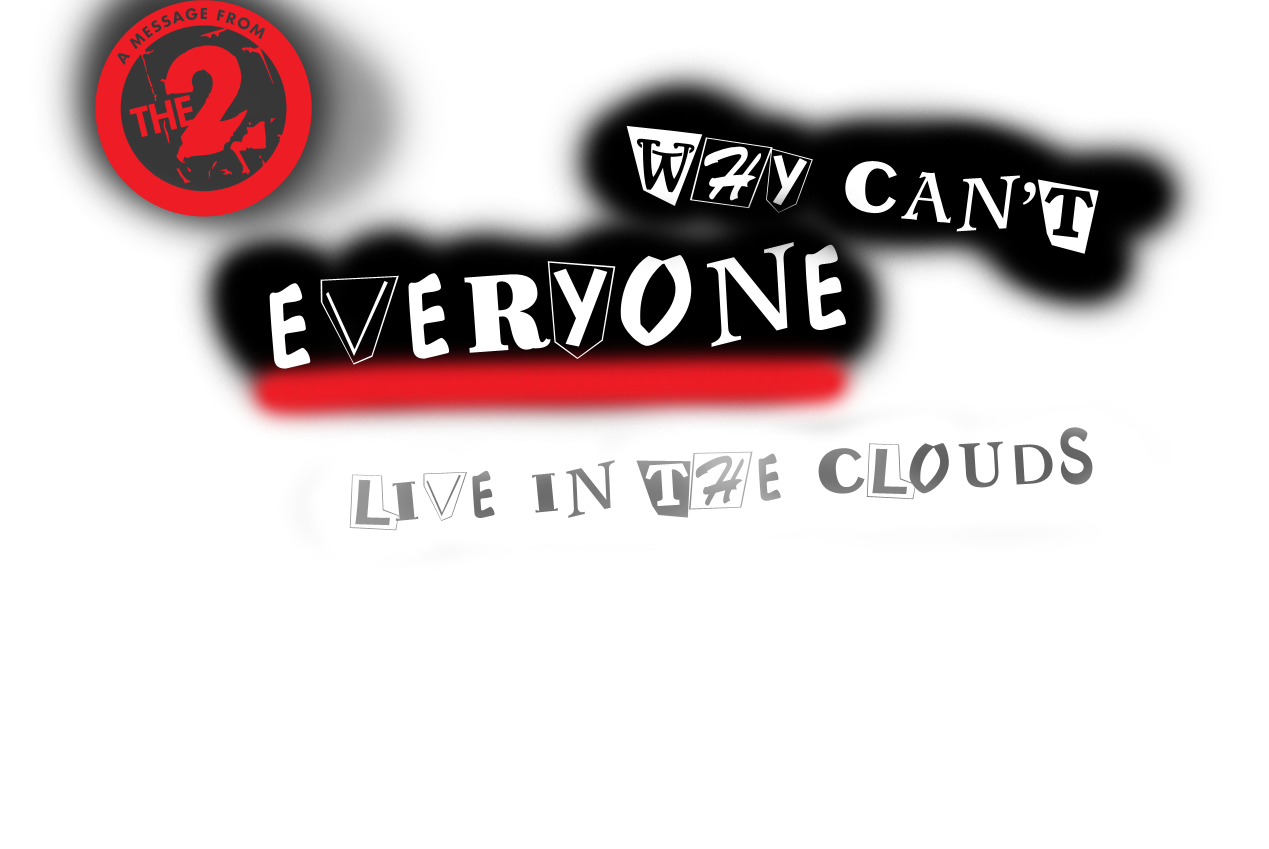
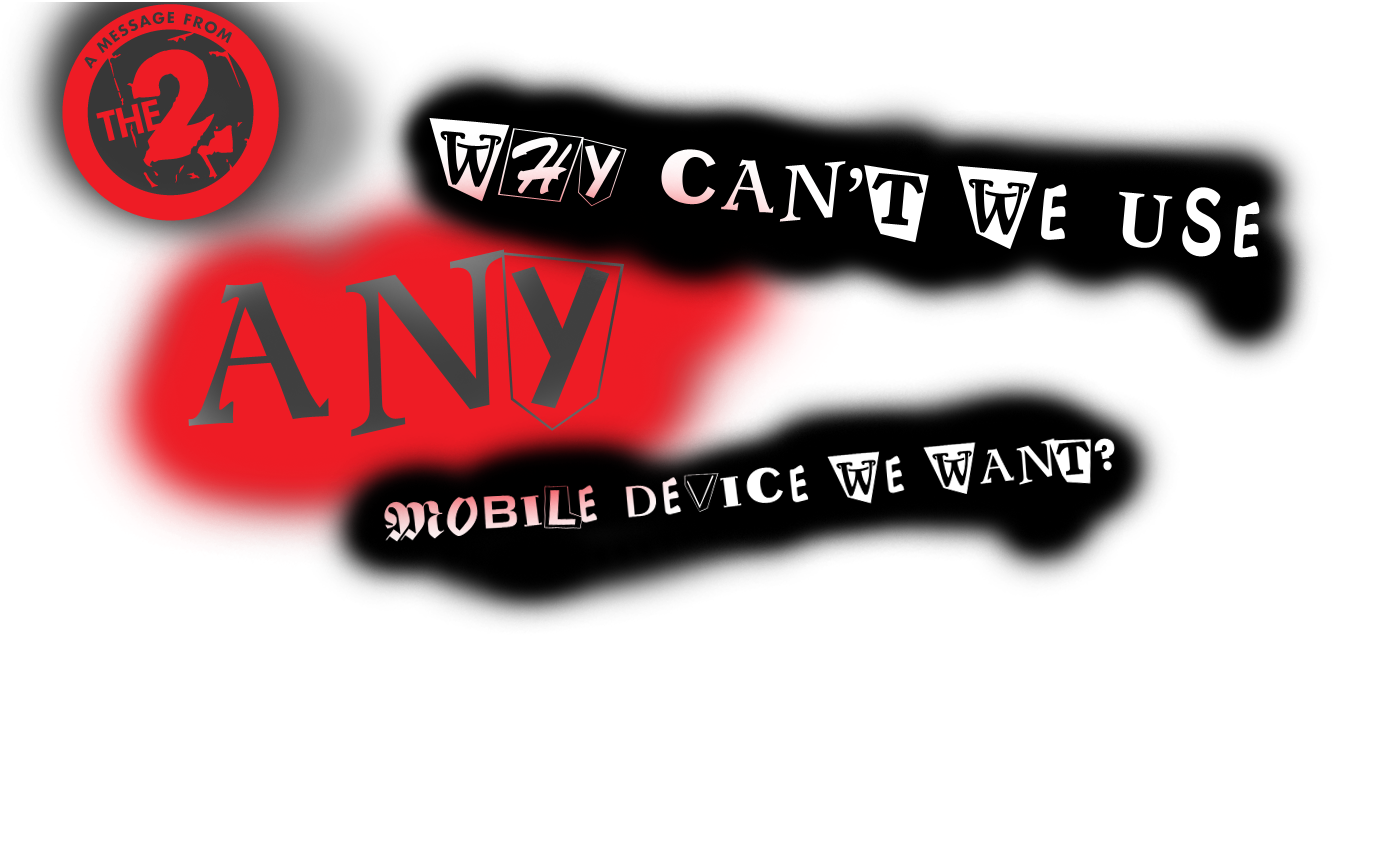
More DOD landing stuff

diff --git a/app/assets/stylesheets/dod_foundation_and_overrides.scss b/app/assets/stylesheets/dod_foundation_and_overrides.scss
@@ -137,17 +137,17 @@ $default-float: left;
 // Heading font styles
 
 // $header-font-family: "Helvetica Neue", "Helvetica", Helvetica, Arial, sans-serif;
-$header-font-weight: normal;
+// $header-font-weight: normal;
 // $header-font-style: normal;
-// $header-font-color: #222;
-$header-line-height: 1.2;
+$header-font-color: #333;
+// $header-line-height: 1.4;
 // $header-top-margin: .2em;
-// $header-bottom-margin: .5em;
+$header-bottom-margin: 1.5em;
 // $header-text-rendering: optimizeLegibility;
 
 // Heading font sizes
 
-$h1-font-size: emCalc(36px);
+$h1-font-size: emCalc(40px);
 $h2-font-size: emCalc(31px);
 // $h3-font-size: emCalc(27px);
 // $h4-font-size: emCalc(23px);
@@ -261,11 +261,11 @@ $subheader-line-height: 1.1;
 // $form-label-pointer: pointer;
 // $form-label-font-size: emCalc(14px);
 // $form-label-font-weight: 500;
-// $form-label-font-color: lighten(#000, 30%);
-// $form-label-bottom-margin: emCalc(3px);
+$form-label-font-color: lighten(#000, 60%);
+$form-label-bottom-margin: emCalc(9px);
 // $input-font-family: inherit;
 // $input-font-color: rgba(0,0,0,0.75);
-// $input-font-size: emCalc(14px);
+$input-font-size: emCalc(20px);
 // $input-bg-color: #fff;
 // $input-focus-bg-color: darken(#fff, 2%);
 // $input-border-color: darken(#fff, 20%);
@@ -462,7 +462,7 @@ $subheader-line-height: 1.1;
 // Text style
 
 // $alert-font-weight:                bold;
-// $alert-font-size:                  emCalc(14px);
+$alert-font-size:                  emCalc(22px);
 // $alert-font-color:                 #fff;
 // $alert-font-color-alt:             darken($secondary-color, 60%);
 

diff --git a/app/assets/javascripts/teaser_application.js b/app/assets/javascripts/teaser_application.js
@@ -1,0 +1,3 @@
+//= require jquery
+//= require jquery_ujs
+//= require foundation

diff --git a/app/controllers/main_controller.rb b/app/controllers/main_controller.rb
@@ -15,11 +15,12 @@ class MainController < ApplicationController
     @features = website.features
     respond_to do |format|
       format.html { 
-        # if !!(website.brand.name.to_s.match(/dod/i))
-        #   teaser
-        # else
+        campaign = "#{website.brand.name}-#{Date.today.year}"
+        if website.teaser.to_i >= 1 && !(cookies[campaign])
+          teaser
+        else
           render_template 
-        # end
+        end
       }
       format.xml { 
         product_families = ProductFamily.parents_with_current_products(website, I18n.locale)
@@ -31,7 +32,12 @@ class MainController < ApplicationController
 
   # Built for the DOD relaunch, replaces the homepage
   def teaser
-    render_template action: 'teaser', layout: "#{website.folder}/layouts/teaser"
+    @signup = Signup.new(campaign: "#{website.brand.name}-#{Date.today.year}")
+    render_template action: 'teaser', layout: teaser_layout
+  end
+
+  def teaser_complete
+    render_template action: 'teaser_complete', layout: teaser_layout
   end
   
   # The site's dealer locator. 
@@ -260,5 +266,12 @@ class MainController < ApplicationController
     render inline: '<script src="//connect.facebook.net/en_US/all.js"></script>', layout: false
   end
   caches_page :channel
+
+  private
+
+  def teaser_layout
+    File.exist?(Rails.root.join("app", "views", website.folder, "layouts", "teaser.html.erb")) ?
+      "#{website.folder}/layouts/teaser" : "teaser"
+  end
 
 end

diff --git a/app/controllers/signups_controller.rb b/app/controllers/signups_controller.rb
@@ -1,0 +1,31 @@
+class SignupsController < ApplicationController
+	before_filter :set_locale
+
+  def new
+  	@signup = Signup.new(campaign: "#{website.brand.name}-#{Date.today.year}")
+  	render_template action: 'new', layout: teaser_layout
+  end
+
+  def create
+  	@signup = Signup.new(params[:signup])
+  	respond_to do |format|
+      @signup.brand_id = website.brand_id
+      if @signup.save
+      	cookies[@signup.campaign] = @signup.email
+        format.html { redirect_to(teaser_complete_path, notice: "Cool. You'll be the first to know!") }
+        format.xml  { render xml: @signup, status: :created, location: @signup }
+      else
+        format.html { render_template action: 'new', layout: teaser_layout }
+        format.xml  { render xml: @signup.errors, status: :unprocessable_entity }
+      end
+    end
+  end
+
+  private
+
+  def teaser_layout
+    File.exist?(Rails.root.join("app", "views", website.folder, "layouts", "teaser.html.erb")) ?
+      "#{website.folder}/layouts/teaser" : "teaser"
+  end
+
+end

diff --git a/config/routes.rb b/config/routes.rb
@@ -2,6 +2,8 @@ require "domain_conditions"
 
 HarmanSignalProcessingWebsite::Application.routes.draw do
 
+  get "signups/new"
+
   get "epedal_labels/index"
 
   namespace :api, defaults: {format: 'json'} do
@@ -243,6 +245,7 @@ HarmanSignalProcessingWebsite::Application.routes.draw do
         :effects,
         :dealers,
         :clinics,
+        :signups,
         :brands,
         :pages,
         :faqs
@@ -260,7 +263,8 @@ HarmanSignalProcessingWebsite::Application.routes.draw do
     # constraints(DigitechDomain) do
     #   mount Forem::Engine, at: "/soundcomm"
     # end
-    
+    resources :signups, only: [:new, :create]  
+    get 'now-youll-know' => 'main#teaser_complete', as: :teaser_complete  
     resources :us_reps, :distributors, only: [:index, :show] do
       collection { get :search }
     end

diff --git a/db/schema.rb b/db/schema.rb
@@ -1172,6 +1172,7 @@ ActiveRecord::Schema.define(:version => 20130723173156) do
     t.string   "name"
     t.string   "email"
     t.string   "campaign"
+    t.integer  "brand_id"
     t.datetime "created_at", :null => false
     t.datetime "updated_at", :null => false
   end

diff --git a/config/environments/production.rb b/config/environments/production.rb
@@ -51,6 +51,8 @@ HarmanSignalProcessingWebsite::Application.configure do
     site.css 
     toolkit.css
     toolkit_application.js
+    teaser_application.js
+    dod_teaser.css
     vocalist.css )
 
   # Specifies the header that your server uses for sending files

diff --git a/db/migrate/20130723173156_create_signups.rb b/db/migrate/20130723173156_create_signups.rb
@@ -4,7 +4,7 @@ class CreateSignups < ActiveRecord::Migration
       t.string :name
       t.string :email
       t.string :campaign
-
+      t.integer :brand_id, :index => true
       t.timestamps
     end
   end

diff --git a/app/models/signup.rb b/app/models/signup.rb
@@ -1,3 +1,5 @@
 class Signup < ActiveRecord::Base
   attr_accessible :campaign, :email, :name
+  validates :email, presence: true
+  validates :brand_id, presence: true
 end

diff --git a/app/helpers/signups_helper.rb b/app/helpers/signups_helper.rb
@@ -1,0 +1,2 @@
+module SignupsHelper
+end
